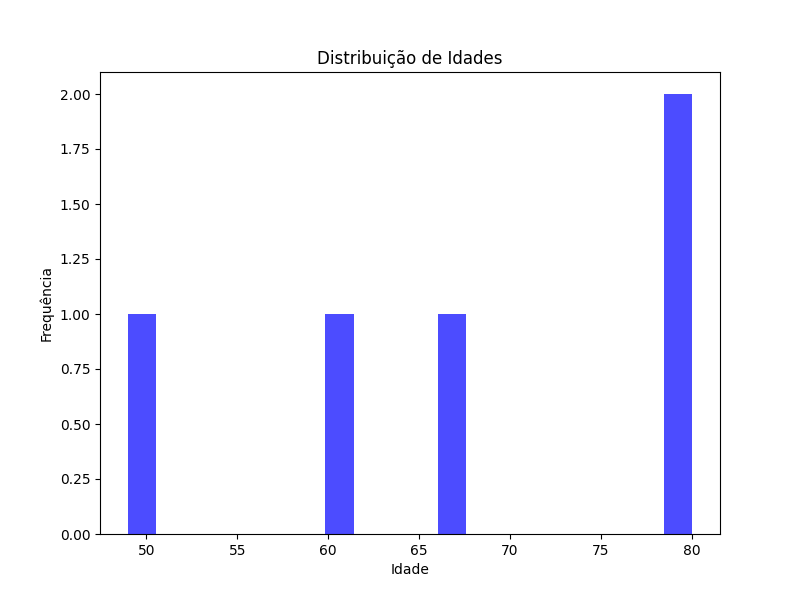
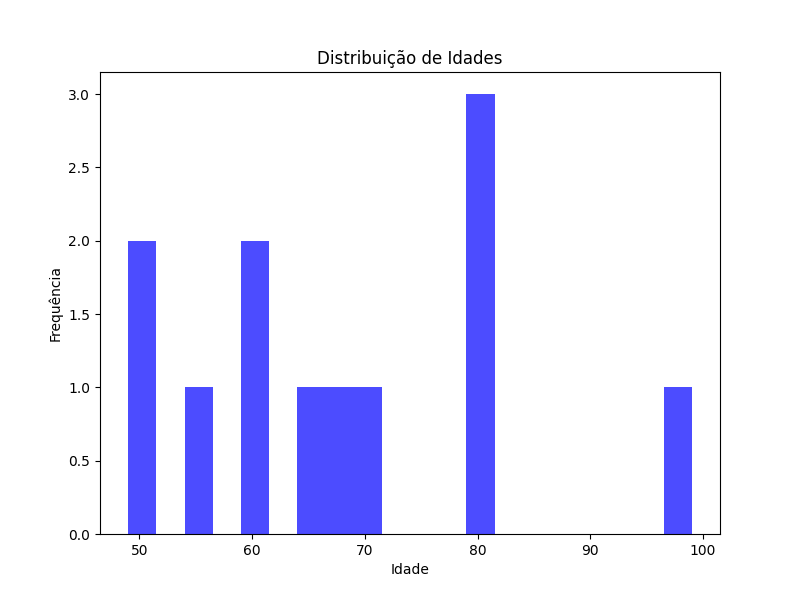
cnn

diff --git a/app.py b/app.py
@@ -2,6 +2,7 @@ from flask import Flask, render_template, request
 from database import create_database, save_patient, get_patients
 from models import load_data, train_model, predict_stroke, generate_graphs
 import os
+import pandas as pd  # Importação do Pandas
 
 app = Flask(__name__)
 
@@ -39,11 +40,24 @@ def predict():
     # Salva os dados do paciente no banco de dados
     save_patient(age, hypertension, heart_disease, avg_glucose_level, bmi, prediction)
 
+    # Atualiza o DataFrame com os novos dados
+    global df
+    new_data = {
+        'age': [age],
+        'hypertension': [hypertension],
+        'heart_disease': [heart_disease],
+        'avg_glucose_level': [avg_glucose_level],
+        'bmi': [bmi],
+        'stroke': [prediction]
+    }
+    new_df = pd.DataFrame(new_data)  # Usando o Pandas para criar o DataFrame
+    df = pd.concat([df, new_df], ignore_index=True)
+
+    # Gera os gráficos novamente (com os novos dados)
+    generate_graphs(df)
+
     # Recupera a lista de pacientes atualizada
     patients = get_patients()
-
-    # Gera gráficos novamente (com os novos dados)
-    generate_graphs(df)
 
     # Retorna o template com o resultado e a lista de pacientes
     return render_template('index.html', result=result, patients=patients)

diff --git a/models.py b/models.py
@@ -1,11 +1,10 @@
-import pandas as pd
-import matplotlib.pyplot as plt
-from sklearn.model_selection import train_test_split
-from sklearn.ensemble import RandomForestClassifier
-from sklearn.metrics import accuracy_score
 import matplotlib
 matplotlib.use('Agg')  # Define o backend como 'Agg'
 import matplotlib.pyplot as plt
+import pandas as pd
+from sklearn.model_selection import train_test_split
+from sklearn.neighbors import KNeighborsClassifier
+from sklearn.metrics import accuracy_score
 
 def load_data():
     # Carrega o dataset de AVC
@@ -20,14 +19,14 @@ def train_model(df):
     # Divide os dados em treino e teste
     X_train, X_test, y_train, y_test = train_test_split(features, target, test_size=0.2, random_state=42)
 
-    # Treina o modelo Random Forest
-    model = RandomForestClassifier(n_estimators=100, random_state=42)
+    # Treina o modelo KNN
+    model = KNeighborsClassifier(n_neighbors=10)  # Aumente o número de vizinhos
     model.fit(X_train, y_train)
 
     # Avalia o modelo
     y_pred = model.predict(X_test)
     accuracy = accuracy_score(y_test, y_pred)
-    print(f'Acurácia do modelo: {accuracy:.2f}')
+    print(f'Acurácia do modelo KNN: {accuracy:.2f}')
 
     return model
 
